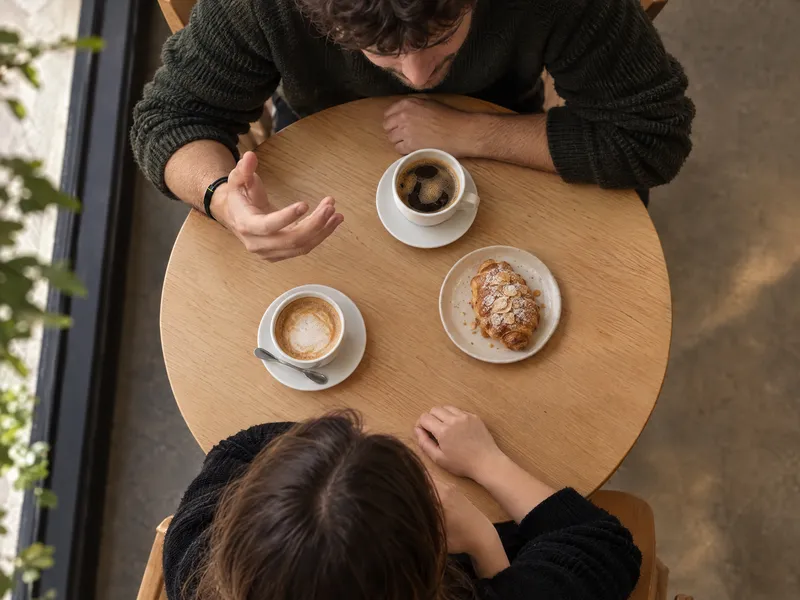
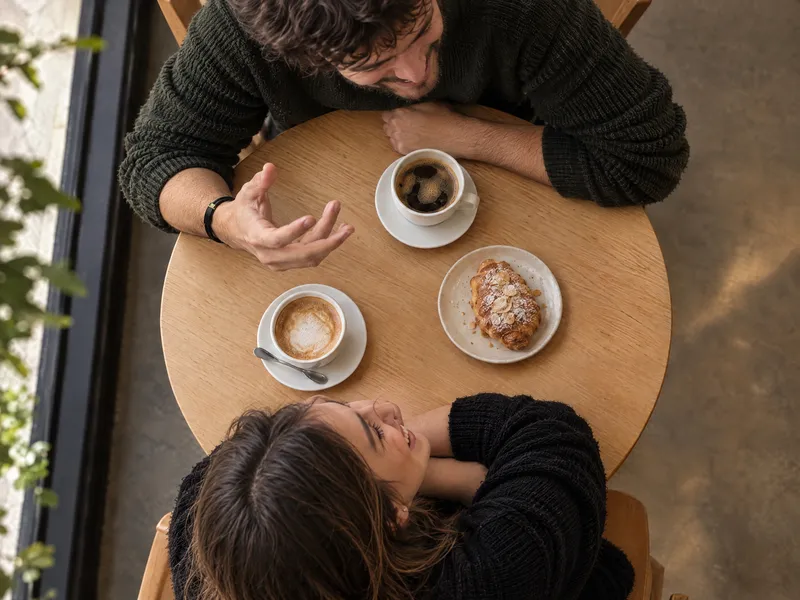
V8 preview: the two photos tell the moment, stiff and waiting by the recorder, laughing with Larkin

diff --git a/v8/index.html b/v8/index.html
@@ -344,7 +344,7 @@
         <article class="vs__side vs__side--them" aria-labelledby="vs-them">
           <p class="vs__name" id="vs-them">Recorders turn chats into meetings.</p>
           <p class="vs__who">Plaud, Pocket and the like</p>
-          <figure class="vs__scene"><img src="/media/vs-top-recorder-1400.webp?v=3" srcset="/media/vs-top-recorder-800.webp?v=3 800w, /media/vs-top-recorder-1400.webp?v=3 1400w" sizes="(min-width: 900px) 46vw, 92vw" alt="Seen from above, two friends talk over coffee while one presses record on a recorder lying between them" width="1400" height="1050" loading="lazy" decoding="async"><span class="vs__spot" aria-hidden="true"></span><span class="vs__inset" aria-hidden="true"><img class="vs__inset-plaud" src="/media/vs-plaud.webp" alt="" width="386" height="600" loading="lazy" decoding="async"><img class="vs__inset-pocket" src="/media/vs-pocket.webp" alt="" width="760" height="497" loading="lazy" decoding="async"></span></figure>
+          <figure class="vs__scene"><img src="/media/vs-top-recorder-1400.webp?v=4" srcset="/media/vs-top-recorder-800.webp?v=4 800w, /media/vs-top-recorder-1400.webp?v=4 1400w" sizes="(min-width: 900px) 46vw, 92vw" alt="Seen from above, one friend presses record on a recorder between them while the other waits, hands folded" width="1400" height="1050" loading="lazy" decoding="async"><span class="vs__spot" aria-hidden="true"></span><span class="vs__inset" aria-hidden="true"><img class="vs__inset-plaud" src="/media/vs-plaud.webp" alt="" width="386" height="600" loading="lazy" decoding="async"><img class="vs__inset-pocket" src="/media/vs-pocket.webp" alt="" width="760" height="497" loading="lazy" decoding="async"></span></figure>
           <div class="vs__row"><p class="vs__key">Recording</p><p class="vs__val">Press record, every time</p></div>
           <div class="vs__row"><p class="vs__key">Where it sits</p><p class="vs__val">On the table, between you</p></div>
           <div class="vs__row"><p class="vs__key">What you get</p><p class="vs__val">Transcripts, notes and to&#8209;dos</p></div>
@@ -353,7 +353,7 @@
         <article class="vs__side vs__side--us" aria-labelledby="vs-us">
           <p class="vs__name" id="vs-us">Larkin keeps you in the moment.</p>
           <p class="vs__who">Worn on your wrist</p>
-          <figure class="vs__scene"><img src="/media/vs-top-larkin-1400.webp?v=4" srcset="/media/vs-top-larkin-800.webp?v=4 800w, /media/vs-top-larkin-1400.webp?v=4 1400w" sizes="(min-width: 900px) 46vw, 92vw" alt="The same table from above, nothing recording on it, Larkin on his wrist as he talks" width="1400" height="1050" loading="lazy" decoding="async"><span class="vs__spot" aria-hidden="true"></span><span class="vs__inset" aria-hidden="true"><img class="vs__inset-larkin" src="/media/vs-larkin.webp" alt="" width="1100" height="448" loading="lazy" decoding="async"></span></figure>
+          <figure class="vs__scene"><img src="/media/vs-top-larkin-1400.webp?v=5" srcset="/media/vs-top-larkin-800.webp?v=5 800w, /media/vs-top-larkin-1400.webp?v=5 1400w" sizes="(min-width: 900px) 46vw, 92vw" alt="The same two friends laughing over coffee, nothing on the table, Larkin on his wrist" width="1400" height="1050" loading="lazy" decoding="async"><span class="vs__spot" aria-hidden="true"></span><span class="vs__inset" aria-hidden="true"><img class="vs__inset-larkin" src="/media/vs-larkin.webp" alt="" width="1100" height="448" loading="lazy" decoding="async"></span></figure>
           <div class="vs__row"><p class="vs__key">Recording</p><p class="vs__val">Always on, nothing to press</p></div>
           <div class="vs__row"><p class="vs__key">Where it sits</p><p class="vs__val">On your wrist</p></div>
           <div class="vs__row"><p class="vs__key">What you get</p><p class="vs__val">Insight into how you communicate</p></div>
